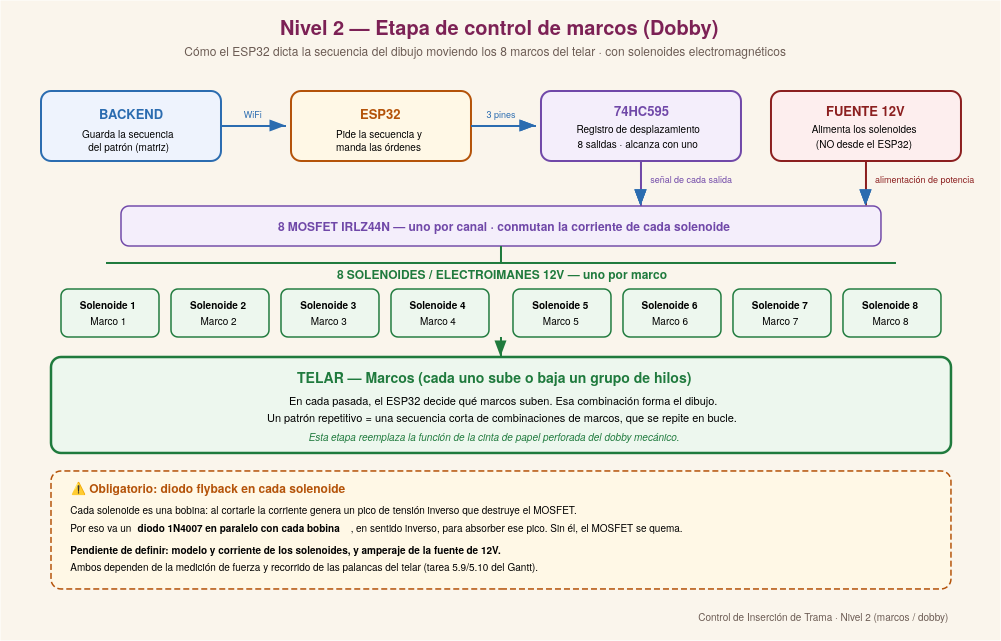
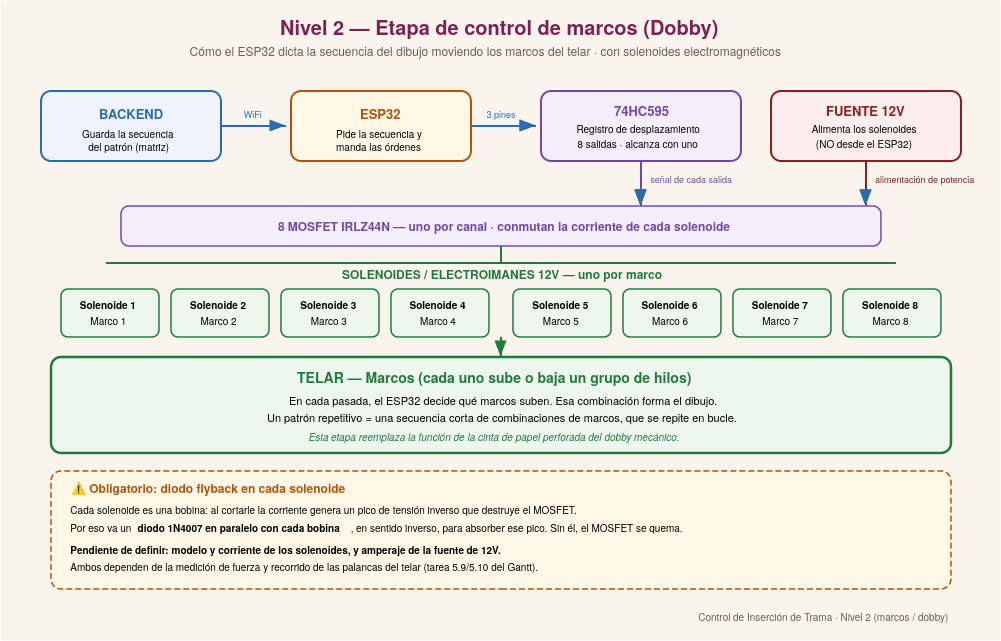
Add files via upload

Changed region(s): [[0.1858, 0.0624, 0.7742, 0.0936], [0.3407, 0.4056, 0.6813, 0.4368]]

diff --git a/esp32/verificacion/sim_nivel2.py b/esp32/verificacion/sim_nivel2.py
@@ -89,7 +89,7 @@ v.append((f"Nunca se activan más marcos que los físicos ({N_MARCOS})",
 # 4. En cada pasada, complementariedad (los que no suben, bajan)
 v.append(("En cada pasada, cada marco está definido (arriba O abajo)",
           all(len(h) == N_MARCOS for h in historial)))
-# 5. Un solo 74HC595 alcanza (8 salidas para los 8 marcos del telar)
+# 5. Un solo 74HC595 alcanza (tiene 8 salidas)
 v.append((f"Un solo 74HC595 alcanza para este telar ({N_MARCOS} marcos, 8 salidas disponibles)",
           N_MARCOS <= N_CANALES_74HC595))
 

diff --git a/esp32/NIVEL2_CONTROL_POR_MARCOS.md b/esp32/NIVEL2_CONTROL_POR_MARCOS.md
@@ -29,8 +29,8 @@ bucle" es exactamente lo que el sistema ya hace hoy con la matriz de pasadas.
 ## Cómo funciona
 
 En cada pasada del telar, algunos marcos suben y otros bajan; esa combinación
-forma el cruce de los hilos que da el dibujo. Con 8 marcos, cada pasada es
-simplemente **cuáles de los 8 suben**. El patrón repetitivo es una lista corta
+forma el cruce de los hilos que da el dibujo. Cada pasada se reduce entonces a indicar **cuáles se activan**. En este
+telar son 3, confirmado en el relevamiento del 28/08/26. El patrón repetitivo es una lista corta
 de esas combinaciones, que se repite.
 
 ```
@@ -52,14 +52,14 @@ de esas combinaciones, que se repite.
 
 ## El hardware necesario
 
-- **8 solenoides / electroimanes de 12V**, uno por marco (máximo confirmado
-  del telar Vamatex C201 en el relevamiento del 19/08/26). Cada uno tira de
+- **Solenoides / electroimanes de 12V**, uno por marco (el Vamatex C201 tiene
+  3 bobinas de selección instaladas, según el relevamiento del 19/08/26). Cada uno tira de
   su marco cuando recibe corriente.
 - El **ESP32** recibe del backend la secuencia y, en cada pasada, activa los
   marcos que van arriba.
 - Como son pocos, entran casi en los pines del ESP32; con **un solo shift
-  register** (74HC595) sobra para manejar los 8 sin quedarse sin pines: con
-  8 marcos alcanza con un solo integrado, no hace falta encadenar un segundo.
+  register** (74HC595) sobra sin quedarse sin pines: sus 8 salidas
+  alcanzan de sobra para este telar, no hace falta encadenar un segundo.
 - Una **fuente** acorde al consumo de los actuadores (los electroimanes de
   varios marcos a la vez piden corriente; se dimensiona según el modelo).
 

diff --git a/docs/Analisis_Frontend_y_Plan_Backend.md b/docs/Analisis_Frontend_y_Plan_Backend.md
@@ -55,12 +55,12 @@ Control_Insercion_Trama_V14_Final/
   ```js
   {
     id, nombre, filas, columnas,
-    matriz:  [[...]],   // ⚠ NO es binario 0/1 — cada celda guarda el N° DE PASADAS (0,1,2,3...)
+    matriz:  [[...]],   // una FILA = una PASADA; las columnas son los elementos que se activan a la vez
     colores: [...],     // color de hilo por FILA (hex), separado de la matriz
     creadoAt, modificadoAt
   }
   ```
-- **Simulación de tejido:** `startPlay/pausePlay/stopPlay/rollback` avanzan celda por celda con `setTimeout` (500ms si la celda tiene pasadas, 100ms si está vacía). Es una **simulación visual pura**, no hay comunicación con hardware real.
+- **Simulación de tejido:** `startPlay/pausePlay/retroceder` avanzan FILA por FILA con `setTimeout` (una fila = una pasada; si la fila tiene valores mayores a 1, se repite esa cantidad de veces). Es una **simulación visual pura**, no hay comunicación con hardware real.
 - **"Exportar a PDF"** (`exportDrawToPDF`) en realidad descargaba un `.txt` plano — el botón estaba mal etiquetado, no generaba un PDF real. *(✅ Resuelto — ver sección 8)*
 - **Sin selector de telar/máquina**, sin login, sin tema persistente (el modo oscuro se resetea al recargar).
 

diff --git a/docs/Arbol_Problemas_y_Soluciones.md b/docs/Arbol_Problemas_y_Soluciones.md
@@ -60,8 +60,8 @@ efecto negativo se convierte en un **fin** (un beneficio logrado).
 ### 🌱 Medios (lo que se hizo para atacar cada causa)
 
 1. **Se creó un editor visual de patrones** (la página web): una cuadrícula
-   donde se define, celda por celda, cuántas pasadas lleva cada punto, con
-   colores por fila. → ataca la causa 1.
+   donde cada fila representa una pasada y cada columna un elemento del
+   telar, con colores por fila. → ataca la causa 1.
 2. **Se diseñó una base de datos central (PostgreSQL en Neon)** con 4
    tablas: patrones, telares, historial y errores. → ataca las causas 2 y 5.
 3. **Se construyó un backend (Node.js + Express)** que expone una API REST:

diff --git a/diagramas/README.md b/diagramas/README.md
@@ -42,7 +42,7 @@ solución.
 
 **Etapa de marcos del Nivel 2 (evolución).** Muestra cómo el ESP32 dictaría
 la secuencia del dibujo moviendo los marcos del telar: backend → ESP32 →
-registro de desplazamiento 74HC595 → MOSFETs → 8 solenoides (uno por marco)
+registro de desplazamiento 74HC595 → MOSFETs → los solenoides de selección (uno por marco)
 → telar. Es el diagrama del Nivel 2 (control del tejido), a diferencia del
 eléctrico que es el Nivel 1 (arranque/pausa).
 
